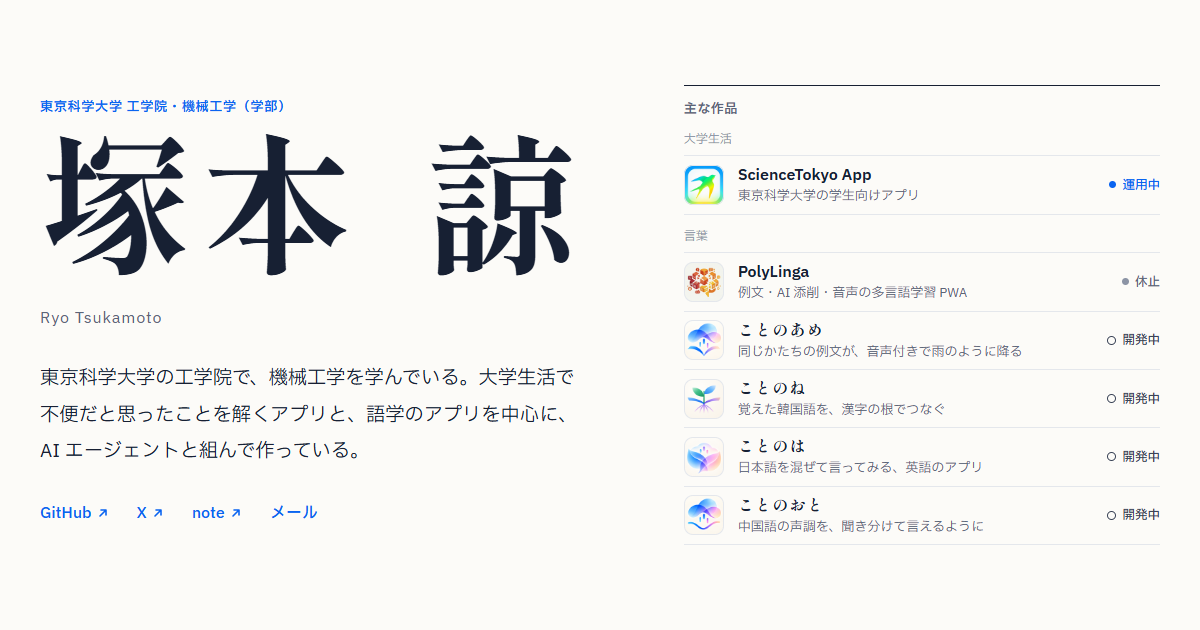
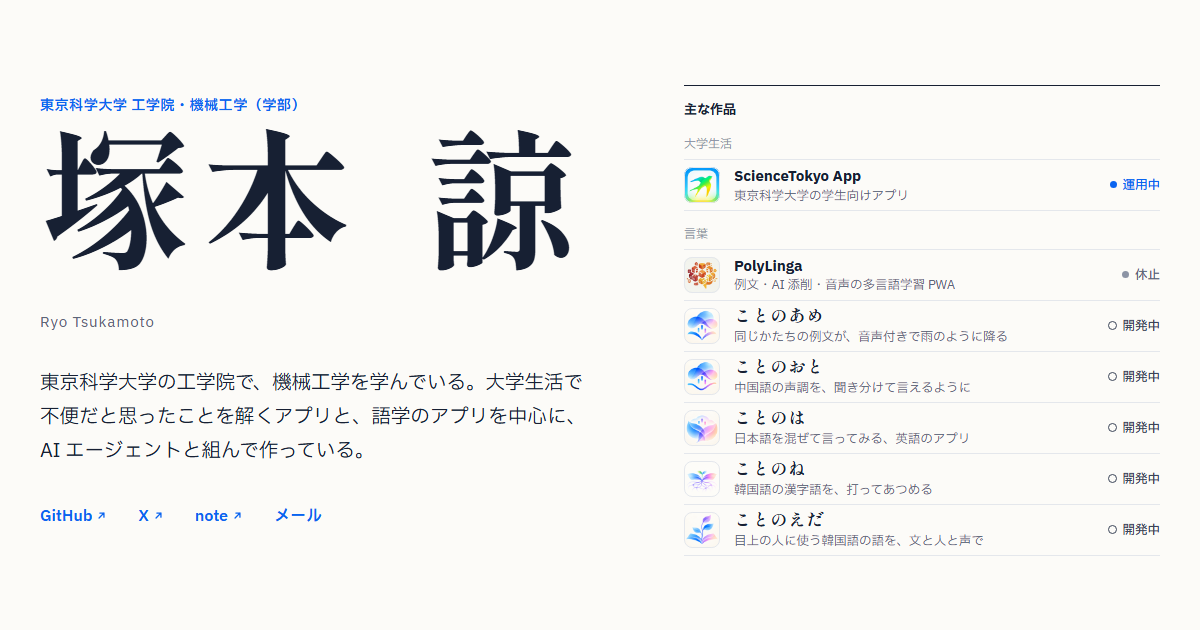
共有の画像を作る tools/og.mjs を足し、ことのえだ を入れて作り直す
assets/img/og.png に ことのえだ が入っておらず、ことのね の説明も古い文言のままだった。
src/content.mjs の名前・紹介・主な作品から、Chrome のヘッドレスで書き出すようにした。
名前・紹介・主な作品を変えたら `node tools/og.mjs` を実行してからビルドする。

diff --git a/README.md b/README.md
@@ -15,10 +15,12 @@
 - `assets/site.css` / `site.js` / `demos.js` … 見た目、動画と点の雨、4つのデモ（ことのあめ・ことのね・ことのえだ・ことのおと）
 - `assets/media/` `assets/audio/` `assets/img/` … 映像・音声・画像
 - `tools/sciencetokyo-day.py` … ScienceTokyo App の縦長の映像を作る（下の「素材の出どころ」）
+- `tools/og.mjs` … SNS で共有したときの画像 `assets/img/og.png` を `src/content.mjs` から作り直す（Chrome を使う）
 
 ## 直して書き出す
 
 ```bash
+node tools/og.mjs          # 共有の画像（名前・紹介・主な作品を変えたときだけ。ビルドより先に）
 node src/build.mjs         # 1枚の版
 node src/build-pages.mjs   # 階層の版（pages/）
 ```
@@ -60,6 +62,7 @@ ScienceTokyo App の初期テーマの淡い青と緑）にだけ出てくる。
 | `assets/audio/eda/*.mp3` | ことのえだ（`Desktop/keigo`）の `public/audio` から、上げてみる「ご飯、食べた？」（`src/content/rains.ts` の eat-a）の8本。わたしは女声（Leda）、返事はそれぞれの人の声。名前は `content/audio.json` の対応で付け替えた |
 | `assets/img/kotonoeda.png` | ことのえだ の `public/icons/icon-512.png`（本人が選んだ絵）を 112px に縮めたもの |
 | `assets/img/*.png` | 各アプリのアイコン、ことのあめ の芽の絵 |
+| `assets/img/og.png` | `tools/og.mjs` が `src/content.mjs` の名前・紹介・主な作品（アイコン・ひとこと・状態）から作る（1200×630） |
 | ことのえだ のデモの文と印（`src/content.mjs` の `demos.eda`） | ことのえだ の `src/content/rains.ts`（eat-a の4段）と `branches.ts` の語の高さ（上の語・ふだんの語・-시-）を写したもの。見た目は `climb.module.css`・`line.module.css`・`globals.css` から |
 | ことのね のデモの語と字（`src/content.mjs` の `demos.ne`） | ことのね の `public/data/words.json`・`hanja-chars.json` から 學・生・大・校 とその5語を写したもの。芽と根の絵はアプリの `Sprout.tsx` と同じ形 |
 
